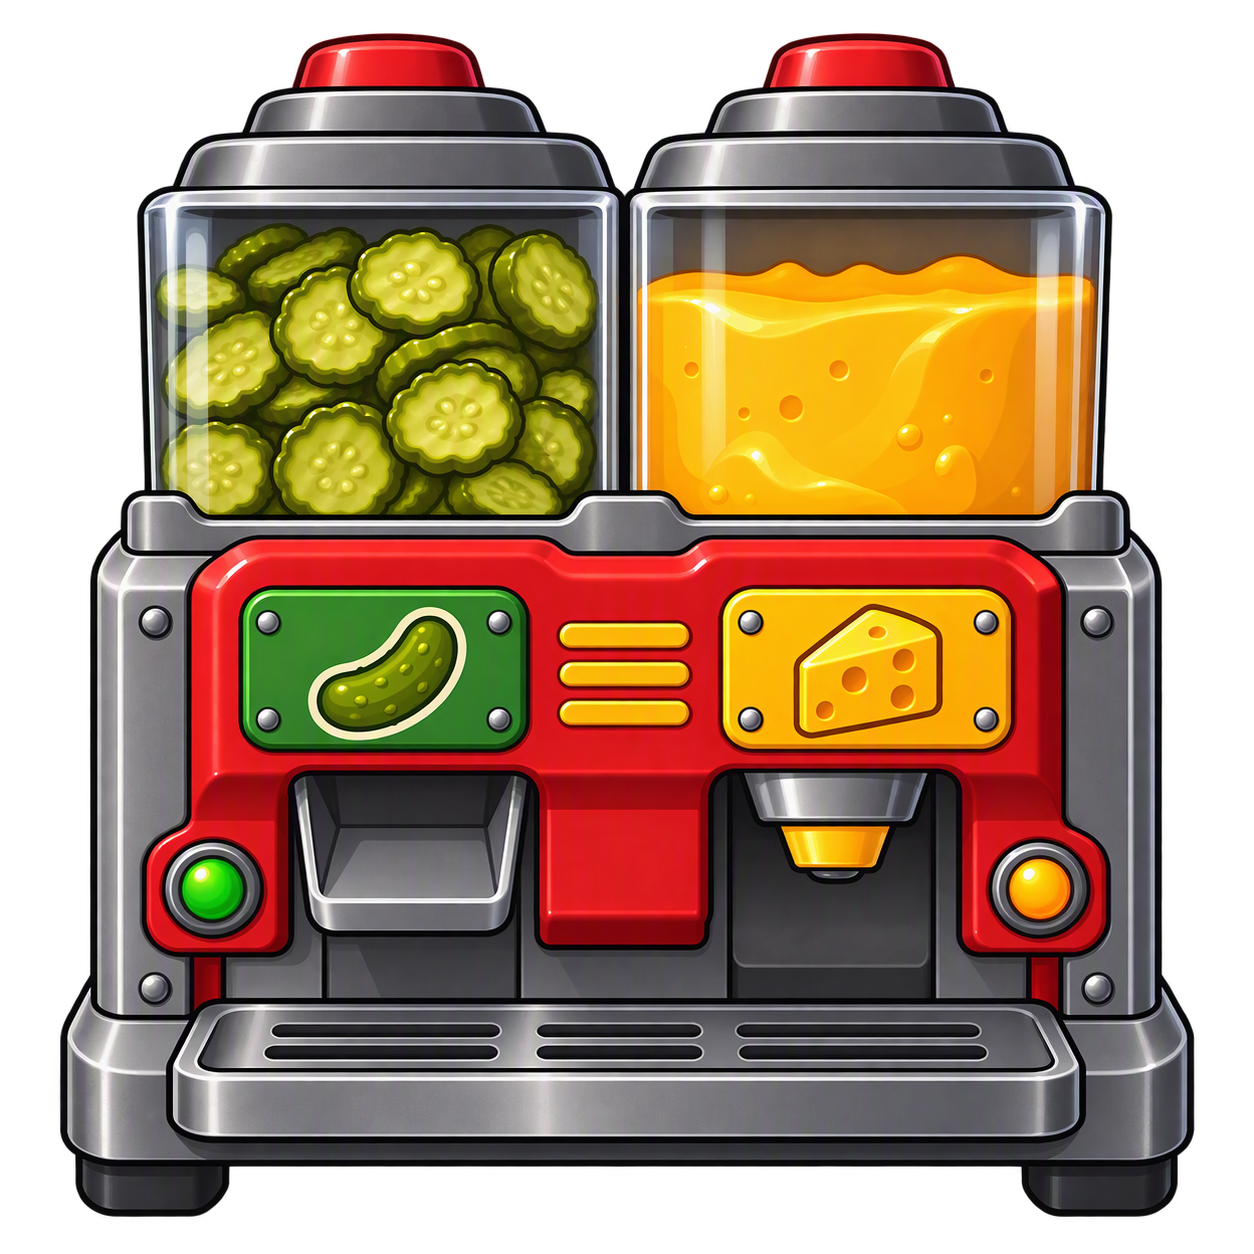
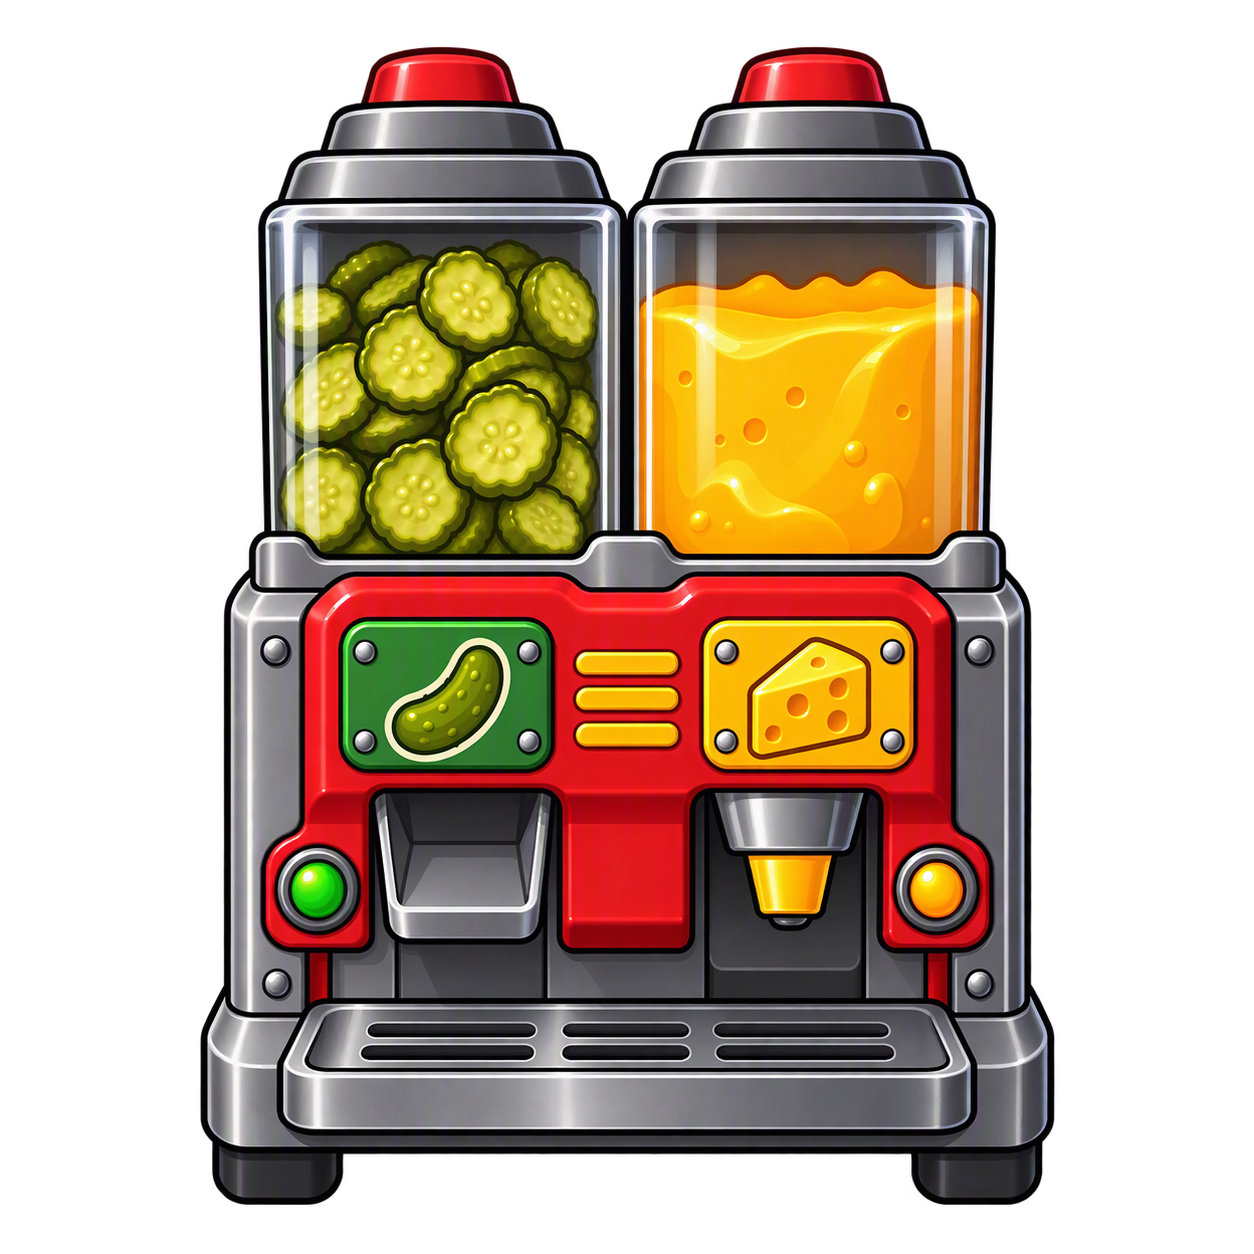
style(view): set positions of dispensers.

diff --git a/src/main/java/com/project/burger/view/MainApp.java b/src/main/java/com/project/burger/view/MainApp.java
@@ -90,20 +90,23 @@ public class MainApp extends Application {
             gamePane.setPrefSize(GAME_WIDTH, GAME_HEIGHT);
             gamePane.setMaxSize(GAME_WIDTH, GAME_HEIGHT);
 
-            // A. DISPLAY DELL'ORDINE: in basso a sinistra dentro l'immagine
+            // ----- DISPLAY DELL'ORDINE -----
+            // in basso a sinistra dentro l'immagine
             orderDisplayView.setMaxSize(200, 90);
             orderDisplayView.setLayoutX(5);
             orderDisplayView.setLayoutY(350);
 
-            // B. GRUPPO STAZIONI + FRECCE: Al centro sulla superficie del banco
+            // ----- GRUPPO STAZIONI + FRECCE -----
+            // Al centro sulla superficie del banco
             HBox stationsWithArrows = new HBox(10, previousButton, stationsView, nextButton);
             stationsWithArrows.setAlignment(Pos.CENTER);
             stationsWithArrows.setLayoutX(270); // modifica la pos X sulla workbench
             stationsWithArrows.setLayoutY(400); // Y su workbench
 
-            // C. DISPENSER MACCHINARI: Sopra il gruppo di bottoni delle stazioni
-            HBox dispensersBox = new HBox(-30); // Spazio tra una macchina e l'altra
-            dispensersBox.setAlignment(Pos.CENTER);
+            // ----- DISPENSERS -----
+            // Sopra il gruppo di bottoni delle stazioni
+            HBox dispensersBox = new HBox(0); // Spazio tra una macchina e l'altra (a 0, gestita nello switch)
+            dispensersBox.setAlignment(Pos.BOTTOM_CENTER);
 
             String[] machinePaths = {
                     "/assets/machine_shape.png",
@@ -119,17 +122,43 @@ public class MainApp extends Application {
                 if (url != null) {
                     machineView.setImage(new Image(url.toExternalForm()));
                 } else {
-                    System.err.println("Immagine non trovata: " + path);
+                    System.err.println("Image not found: " + path);
                 }
                 machineView.setFitHeight(220); // Modifica la dimensione di tutti i dispenser qui
                 machineView.setPreserveRatio(true);
+
+                switch (path) {
+                    case "/assets/machine_shape.png" -> {
+                        machineView.setTranslateY(-1); // valore negativo alza
+                        // machineView.setTranslateX(0);
+                    }
+                    case "/assets/machine_meat.png" -> {
+                        // machineView.setTranslateY(5);
+                        machineView.setTranslateX(-60); // Valore negativo <- verso sinistra
+                    }
+                    case "/assets/machine_veggies.png" -> {
+                        // machineView.setTranslateY(-5);
+                        machineView.setTranslateX(-110);
+                    }
+                    case "/assets/machine_pickles_cheese.png" -> {
+                        machineView.setTranslateY(3);
+                        machineView.setTranslateX(-160);
+                    }
+                    case "/assets/machine_fries_sauces.png" -> {
+                        machineView.setTranslateY(3);
+                        machineView.setTranslateX(-240);
+                    }
+                }
+
                 dispensersBox.getChildren().add(machineView);
             }
 
-            dispensersBox.setLayoutX(170); // aumenta per spostare a destra
-            dispensersBox.setLayoutY(50); // aumenta per spostare in basso
+            // posizioni globali dei dispenser
+            dispensersBox.setLayoutX(165); // aumenta per spostare a destra
+            dispensersBox.setLayoutY(48); // aumenta per spostare in basso
 
-            // C. CHEF + PANINO: Sul piano della cucina
+            // ----- CHEF + PANINO -----
+            // Sul piano della cucina
             HBox upperCenter = new HBox(30, chefView, burgerView);
             upperCenter.setAlignment(Pos.CENTER);
             upperCenter.setLayoutX(300);
